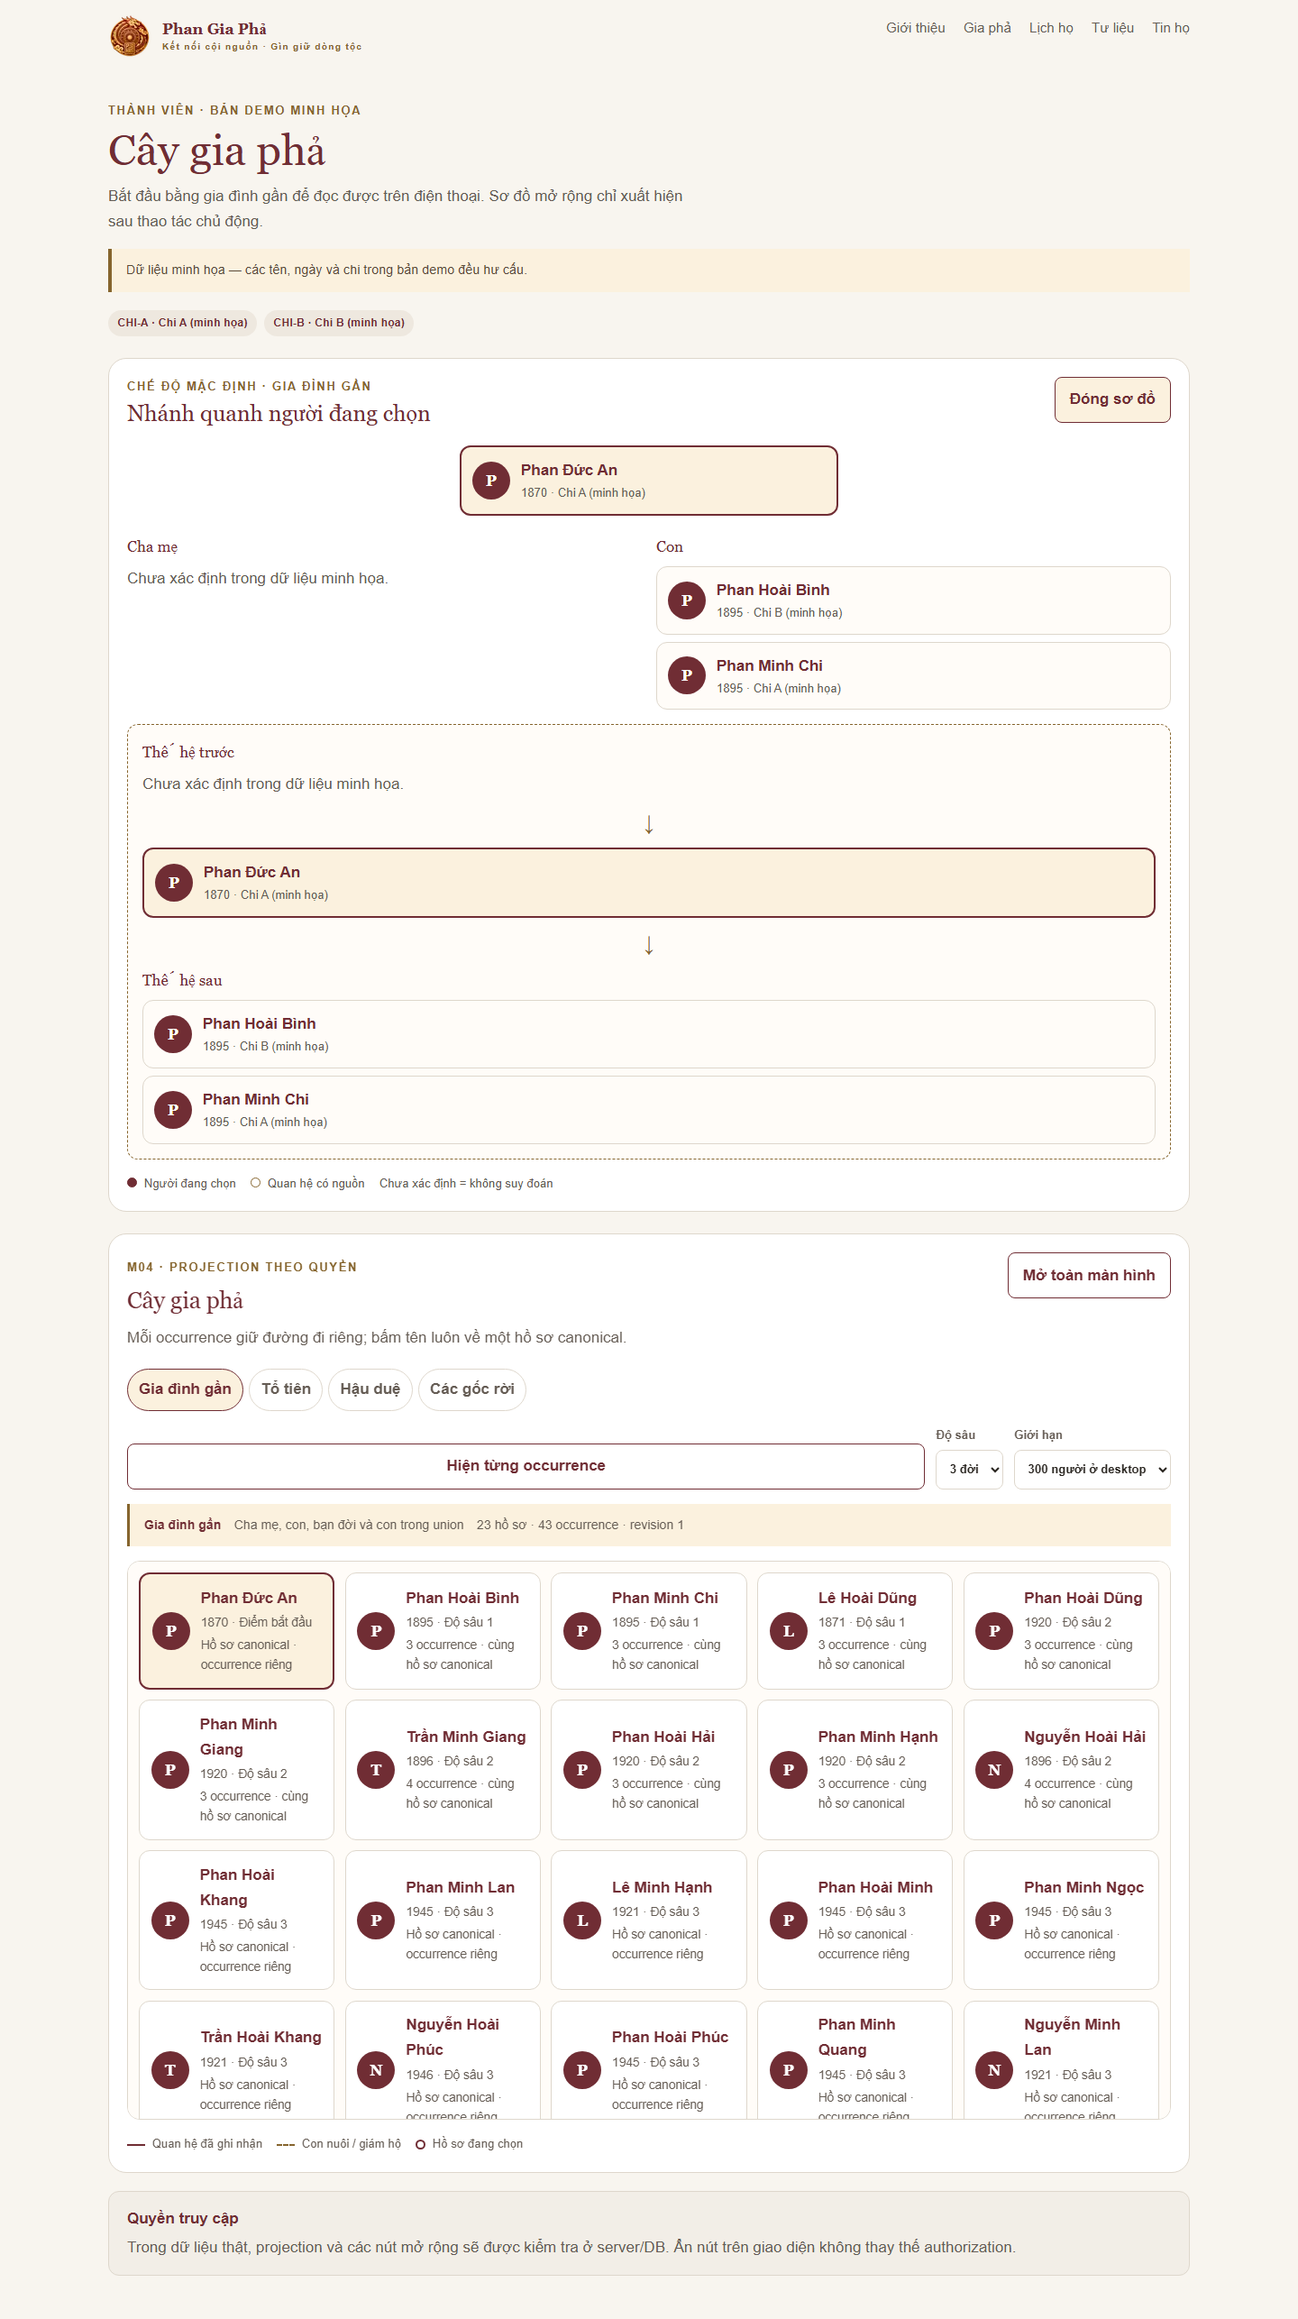
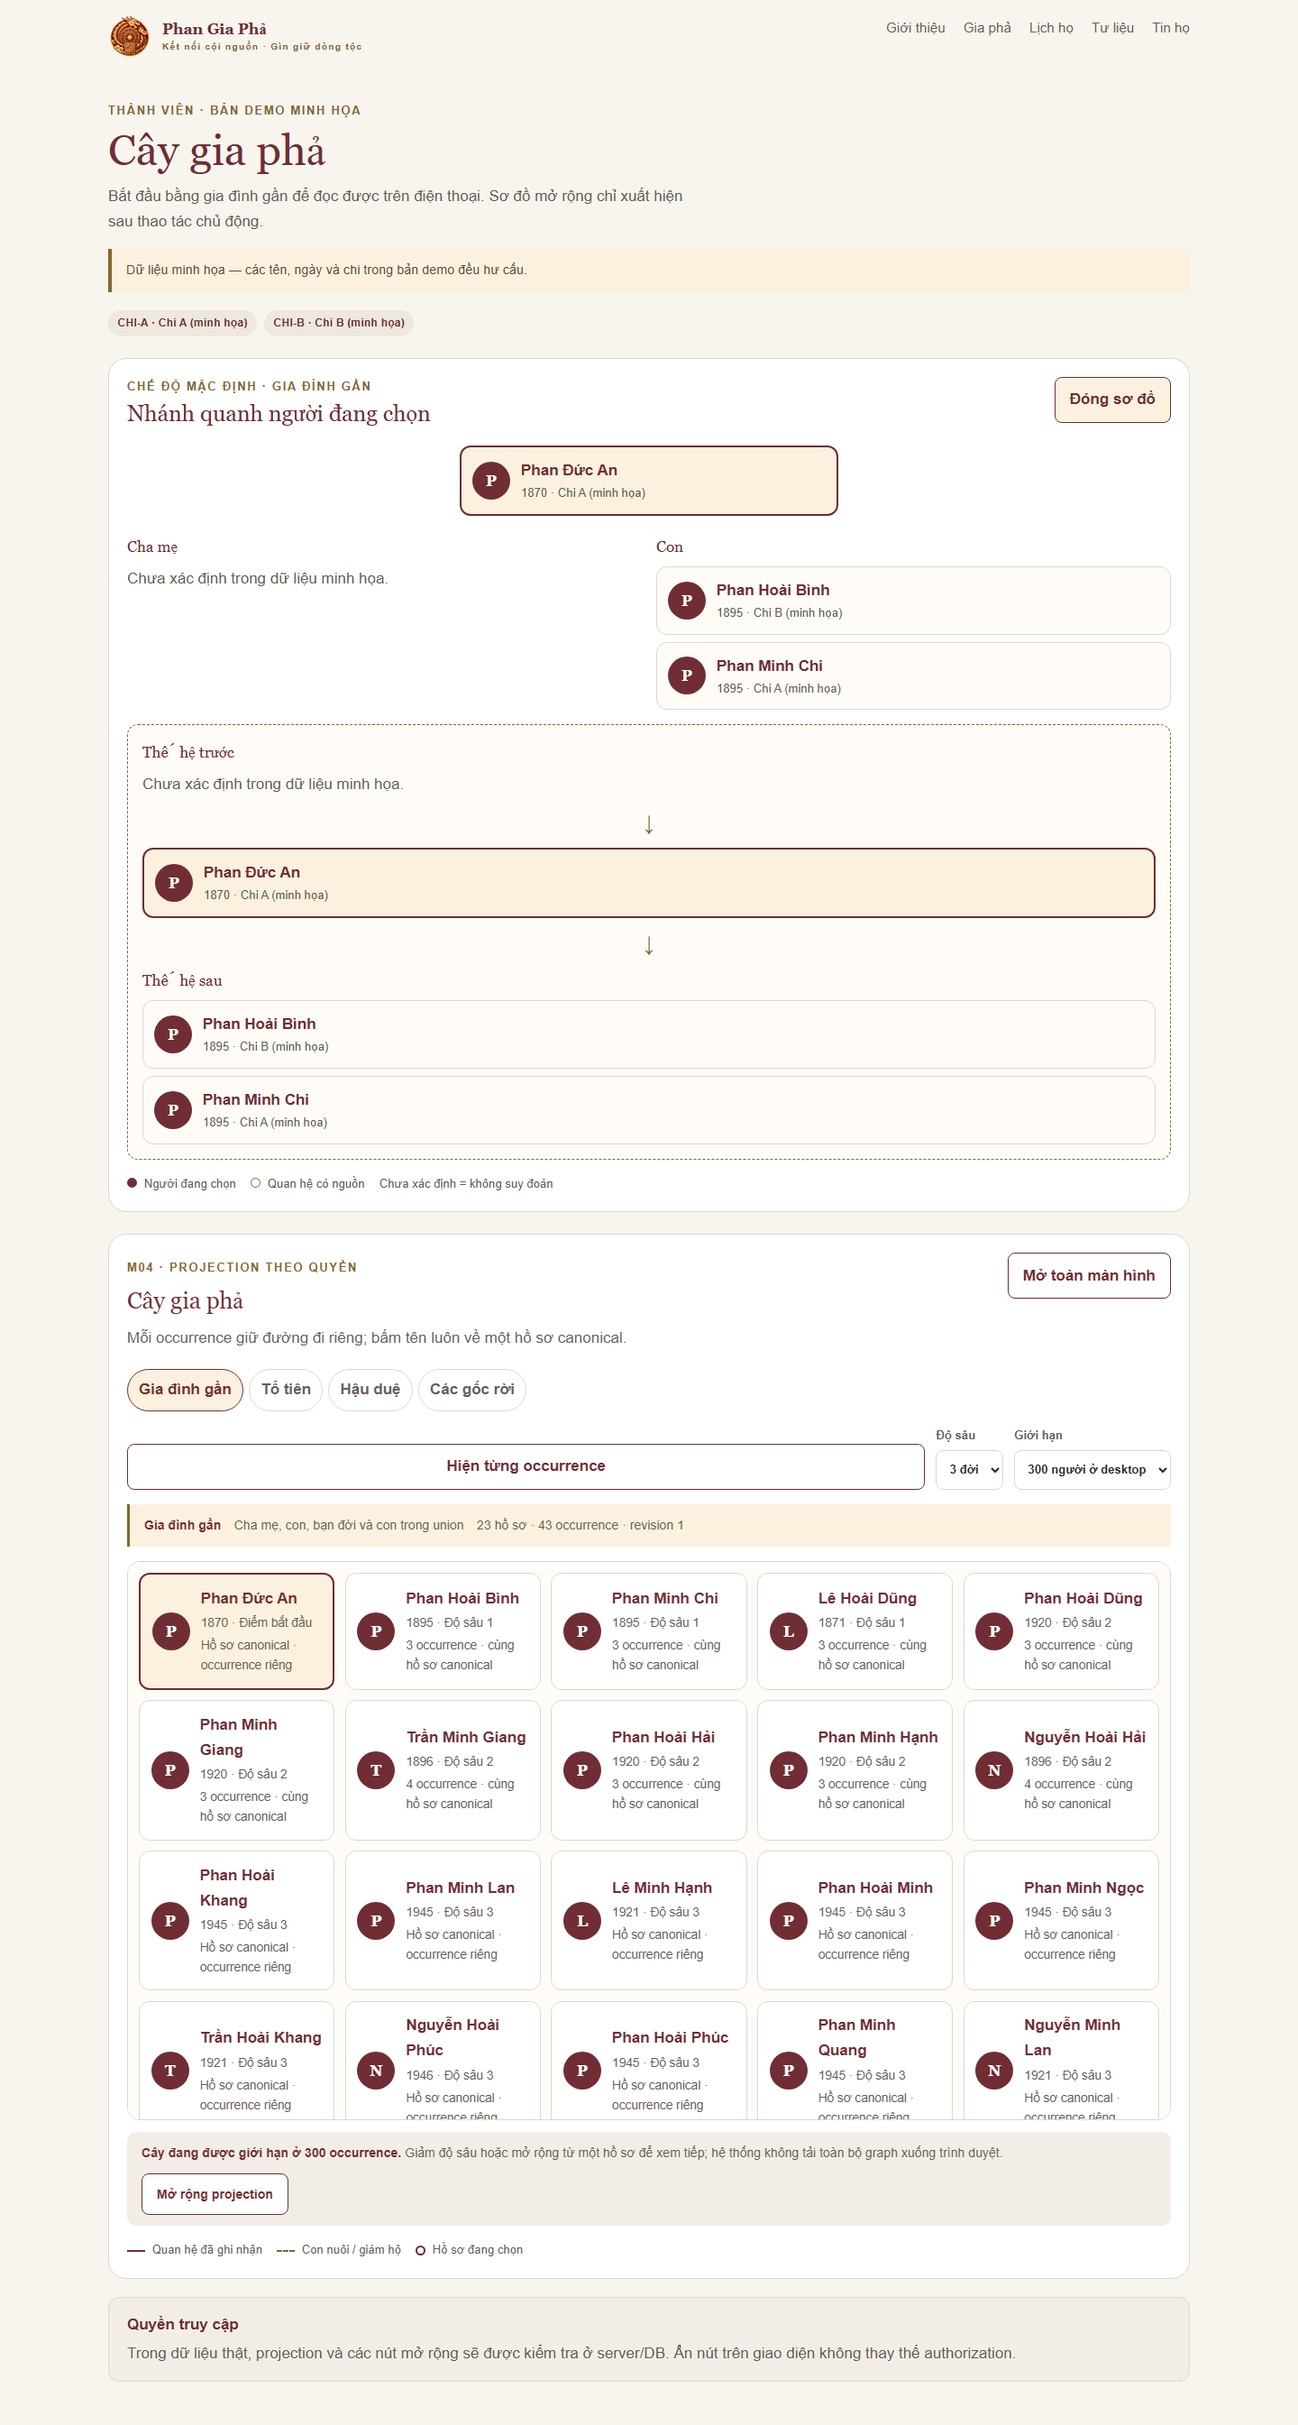
feat: add bounded graph expansion

diff --git a/apps/web/src/modules/m04/tree-explorer.tsx b/apps/web/src/modules/m04/tree-explorer.tsx
@@ -20,10 +20,14 @@ export function TreeExplorer({ rootId }: TreeExplorerProps) {
   const [maxNodes, setMaxNodes] = useState(120);
   const [isFullscreen, setIsFullscreen] = useState(false);
   const [showOccurrences, setShowOccurrences] = useState(false);
+  const [isDesktop, setIsDesktop] = useState(false);
 
   useEffect(() => {
     const media = window.matchMedia("(min-width: 768px)");
-    const updateCap = () => setMaxNodes(media.matches ? 300 : 120);
+    const updateCap = () => {
+      setIsDesktop(media.matches);
+      setMaxNodes(media.matches ? 300 : 120);
+    };
     updateCap();
     media.addEventListener("change", updateCap);
     return () => media.removeEventListener("change", updateCap);
@@ -48,6 +52,13 @@ export function TreeExplorer({ rootId }: TreeExplorerProps) {
   }, [graph, occurrenceGroups, showOccurrences]);
   const currentNode = graph?.nodes.find((node) => node.person.id === rootId && node.depth === 0);
   const modeLabel = modes.find((item) => item.value === mode)?.label ?? "Cây gia phả";
+  const canExpand = Boolean(graph?.nextExpansion && (graph.nextExpansion.depth > depth || (isDesktop && graph.nextExpansion.maxNodes > maxNodes)));
+  const expandProjection = () => {
+    const expansion = graph?.nextExpansion;
+    if (!expansion || !canExpand) return;
+    setDepth(expansion.depth);
+    setMaxNodes(isDesktop ? expansion.maxNodes : 120);
+  };
 
   return (
     <section className={"tree-explorer" + (isFullscreen ? " tree-explorer-fullscreen" : "")} aria-labelledby="tree-explorer-title">
@@ -90,7 +101,7 @@ export function TreeExplorer({ rootId }: TreeExplorerProps) {
           Giới hạn
           <select value={maxNodes} onChange={(event) => setMaxNodes(Number(event.target.value))}>
             <option value={120}>120 người ở mobile</option>
-            <option value={300}>300 người ở desktop</option>
+            {isDesktop ? <option value={300}>300 người ở desktop</option> : null}
           </select>
         </label>
       </div>
@@ -127,7 +138,12 @@ export function TreeExplorer({ rootId }: TreeExplorerProps) {
               ))}
             </div>
           </div>
-          {graph.truncated ? <div className="tree-truncation" role="status"><strong>Cây đang được giới hạn ở {maxNodes} occurrence.</strong> Giảm độ sâu hoặc mở rộng từ một hồ sơ để xem tiếp; hệ thống không tải toàn bộ graph xuống trình duyệt.</div> : null}
+          {graph.truncated ? (
+            <div className="tree-truncation" role="status">
+              <strong>Cây đang được giới hạn ở {maxNodes} occurrence.</strong> Giảm độ sâu hoặc mở rộng từ một hồ sơ để xem tiếp; hệ thống không tải toàn bộ graph xuống trình duyệt.
+              {graph.nextExpansion ? <button className="button-secondary tree-expand-toggle" type="button" onClick={expandProjection} disabled={!canExpand}>Mở rộng projection</button> : null}
+            </div>
+          ) : null}
           <div className="tree-legend" aria-label="Chú giải quan hệ">
             <span><i className="tree-legend-line" /> Quan hệ đã ghi nhận</span>
             <span><i className="tree-legend-line tree-legend-adoptive" /> Con nuôi / giám hộ</span>

diff --git a/contracts/domain.types.ts b/contracts/domain.types.ts
@@ -17,7 +17,7 @@ export type ParentLink = { id: string; version: number; parentId: string; childI
 export type UnionInput = { kind: "marriage" | "partnership" | "unknown"; status: "active" | "separated" | "divorced" | "widowed" | "unknown"; partnerIds: Array<string>; childIds: Array<string>; startDate?: GenealogyDate; endDate?: GenealogyDate; notes?: string; sourceIds?: Array<string> };
 export type Union = { id: string; version: number; kind: "marriage" | "partnership" | "unknown"; status: "active" | "separated" | "divorced" | "widowed" | "unknown"; partnerIds: Array<string>; childIds: Array<string>; startDate?: GenealogyDate; endDate?: GenealogyDate; notes?: string; sourceIds?: Array<string> };
 export type Family = { person: PersonSummary; parents: Array<PersonSummary>; children: Array<PersonSummary>; unions: Array<Union>; links: Array<ParentLink> };
-export type Graph = { nodes: Array<{ occurrenceId: string; person: PersonSummary; depth: number }>; edges: Array<{ id: string; sourceOccurrenceId: string; targetOccurrenceId: string; kind: "biological" | "adoptive" | "guardian" | "step" | "union"; status?: "confirmed" | "disputed" }>; roots: Array<string>; graphRevision: number; truncated: boolean; reason: "node_limit" | "depth_limit" | "time_budget" | null; expandablePersonIds: Array<string> };
+export type Graph = { nodes: Array<{ occurrenceId: string; person: PersonSummary; depth: number }>; edges: Array<{ id: string; sourceOccurrenceId: string; targetOccurrenceId: string; kind: "biological" | "adoptive" | "guardian" | "step" | "union"; status?: "confirmed" | "disputed" }>; roots: Array<string>; graphRevision: number; truncated: boolean; reason: "node_limit" | "depth_limit" | "time_budget" | null; nextExpansion: { direction: "ancestors" | "descendants" | "family" | "roots"; depth: number; maxNodes: number; anchorOccurrenceId: string | null } | null; expandablePersonIds: Array<string> };
 export type Kinship = { status: "found" | "not_found_within_visible_graph" | "limit_reached"; paths: Array<Array<{ person: PersonSummary; via: "start" | "parent" | "child" | "partner" | "adoptive_parent" | "adoptive_child" }>>; label: string | null; labelConfidence: "reviewed_rule" | "descriptive_only" | "unknown"; visitedCount: number; truncated: boolean };
 export type BranchInput = { code: string; name: string; parentBranchId?: string | null; founderPersonId?: string | null; description?: string; visibility: "restricted" | "members" | "public" };
 export type Branch = { id: string; version: number; code: string; name: string; parentBranchId?: string | null; founderPersonId?: string | null; description?: string; visibility: "restricted" | "members" | "public" };

diff --git a/packages/domain/src/m04.ts b/packages/domain/src/m04.ts
@@ -159,7 +159,16 @@ export function buildGraphProjection(input: GraphInput, mode: GraphMode, depth: 
     depth: work.depth
   }));
   const expandablePersonIds = unique(drafts.filter(({ work }) => work.depth < depth).map(({ person }) => person.id));
-  const reason = truncated ? "node_limit" : drafts.some(({ work }) => work.depth === depth) ? "depth_limit" : null;
+  const nodeLimited = truncated;
+  const depthLimited = drafts.some(({ work }) => work.depth === depth);
+  truncated = nodeLimited || depthLimited;
+  const reason = nodeLimited ? "node_limit" : depthLimited ? "depth_limit" : null;
+  const nextExpansion = truncated ? {
+    direction: mode,
+    depth: Math.min(depth + 1, 6),
+    maxNodes: Math.min(maxNodes * 2, 300),
+    anchorOccurrenceId: null
+  } : null;
 
   return {
     nodes,
@@ -168,6 +177,7 @@ export function buildGraphProjection(input: GraphInput, mode: GraphMode, depth: 
     graphRevision: input.graphRevision ?? 1,
     truncated,
     reason,
+    nextExpansion,
     expandablePersonIds
   };
 }

diff --git a/packages/contracts/src/index.ts b/packages/contracts/src/index.ts
@@ -234,6 +234,12 @@ const graphEdgeSchema = z.object({
   kind: z.enum(["biological", "adoptive", "guardian", "step", "union"]),
   status: z.enum(["confirmed", "disputed"]).optional()
 });
+const graphExpansionSchema = z.object({
+  direction: graphDirectionSchema,
+  depth: z.number().int().min(1).max(6),
+  maxNodes: z.number().int().min(1).max(300),
+  anchorOccurrenceId: z.string().min(1).nullable()
+});
 export const graphProjectionSchema = z.object({
   nodes: z.array(z.object({
     occurrenceId: z.string().min(1),
@@ -245,5 +251,6 @@ export const graphProjectionSchema = z.object({
   graphRevision: z.number().int().positive(),
   truncated: z.boolean(),
   reason: z.enum(["node_limit", "depth_limit", "time_budget"]).nullable(),
+  nextExpansion: graphExpansionSchema.nullable().default(null),
   expandablePersonIds: z.array(z.string().uuid())
 });

diff --git a/packages/domain/src/m04.test.ts b/packages/domain/src/m04.test.ts
@@ -28,6 +28,11 @@ describe("M04 graph projection", () => {
   it("honors node caps and keeps disconnected roots separate", () => {
     const limited = buildGraphProjection({ ...input, rootPersonId: people[0]!.id }, "descendants", 3, 1);
     expect(limited.truncated).toBe(true);
+    expect(limited.nextExpansion).toEqual({ direction: "descendants", depth: 4, maxNodes: 2, anchorOccurrenceId: null });
+    const depthLimited = buildGraphProjection({ ...input, rootPersonId: people[0]!.id }, "descendants", 1, 120);
+    expect(depthLimited.truncated).toBe(true);
+    expect(depthLimited.reason).toBe("depth_limit");
+    expect(depthLimited.nextExpansion?.depth).toBe(2);
     const roots = buildGraphProjection(input, "roots", 3, 120);
     expect(roots.nodes.map((node) => node.person.code)).toEqual(["ROOT", "ADOPT", "PARTNER"]);
   });

diff --git a/tests/e2e/p1-demo.spec.ts b/tests/e2e/p1-demo.spec.ts
@@ -84,6 +84,13 @@ test("tree explorer exposes bounded graph modes and fullscreen focus", async ({ 
   await expect(tabs.nth(2)).toHaveAttribute("aria-selected", "true");
   await tabs.nth(3).click();
   await expect(tabs.nth(3)).toHaveAttribute("aria-selected", "true");
+  const capSelect = page.locator(".tree-toolbar select").nth(1);
+  if ((page.viewportSize()?.width ?? 0) >= 768) {
+    await expect(capSelect).toHaveValue("300");
+  } else {
+    await expect(capSelect).toHaveValue("120");
+    await expect(capSelect.locator('option[value="300"]')).toHaveCount(0);
+  }
   const collapseToggle = page.locator(".tree-collapse-toggle");
   await expect(collapseToggle).toHaveAttribute("aria-pressed", "false");
   await collapseToggle.click();

diff --git a/apps/web/src/app/globals.css b/apps/web/src/app/globals.css
@@ -224,6 +224,7 @@ button, a, input, select { min-height: 44px; }
 .tree-state-error { border-color: var(--danger); }
 .tree-truncation { margin-top: .8rem; padding: .75rem 1rem; border-radius: 10px; background: #F2EEE7; color: var(--ink-muted); font-size: .88rem; }
 .tree-truncation strong { color: var(--brand); }
+.tree-expand-toggle { display: block; margin-top: .7rem; }
 .tree-legend { display: flex; flex-wrap: wrap; gap: .65rem 1rem; margin-top: 1rem; color: var(--ink-muted); font-size: .82rem; }
 .tree-legend-line { display: inline-block; width: 1.25rem; margin-right: .25rem; border-top: 2px solid var(--brand); vertical-align: middle; }
 .tree-legend-adoptive { border-top-style: dashed; border-color: var(--accent); }

diff --git a/packages/contracts/src/m04.test.ts b/packages/contracts/src/m04.test.ts
@@ -1,0 +1,18 @@
+import { describe, expect, it } from "vitest";
+import { graphProjectionSchema } from "./index";
+
+describe("M04 graph contracts", () => {
+  it("accepts bounded next expansion guidance", () => {
+    const projection = graphProjectionSchema.parse({
+      nodes: [],
+      edges: [],
+      roots: [],
+      graphRevision: 1,
+      truncated: true,
+      reason: "node_limit",
+      nextExpansion: { direction: "descendants", depth: 4, maxNodes: 240, anchorOccurrenceId: null },
+      expandablePersonIds: []
+    });
+    expect(projection.nextExpansion?.maxNodes).toBe(240);
+  });
+});

diff --git a/state/TEST_REPORT.md b/state/TEST_REPORT.md
@@ -56,3 +56,5 @@ Mỗi test record: testId, requirementId, env, commit, command, startedAt, exitC
 2026-09-27 M04-01 evidence: pnpm test:m04:graph exit 0 for ancestor/descendant/family/roots, union/adoption, disputed labels, disconnected roots and node cap on synthetic local Supabase. pnpm test:db, test:m03 and test:m03:dates exit 0 after migration 0015. Full pnpm test exit 0 (contracts 7/7, domain 12/12, worker 5/5); typecheck, lint (one existing PostCSS warning), build and pnpm test:e2e exit 0 with 24/24 desktop Chromium, mobile Chromium and mobile 320 tests including Tree Explorer modes/fullscreen. Axe/manual/real-device/remote CI remain NOT_RUN; no real data/cloud/production used.
 
 2026-09-27 M04-02 evidence: collapseGraphOccurrences regression passed with repeated canonical person IDs and distinct occurrence IDs; pnpm --filter @phan/domain test exit 0 (13/13). pnpm typecheck, pnpm build and pnpm exec playwright test exit 0 with 24/24 desktop Chromium, mobile Chromium and mobile 320 tests; new E2E assertion covers collapse/expand toggle. Axe/manual/real-device/remote CI remain NOT_RUN; no real data/cloud/production used.
+
+2026-09-27 M04-03 evidence: migration 0015 graph RPC and supabase/tests/m04_graph.sql exit 0 with truncated=true plus bounded nextExpansion depth/maxNodes assertions for node and depth limits. Full pnpm test exit 0 with contracts 8/8, domain 13/13 and worker 5/5; pnpm typecheck, pnpm build and lint (one existing PostCSS warning) exit 0. Playwright exit 0 in project runs: desktop Chromium 8/8, mobile Chromium plus mobile 320 16/16; mobile cap exposes 120 only and desktop uses 300. Axe/manual/real-device/remote CI remain NOT_RUN; no real data/cloud/production used.

diff --git a/state/TASKS.md b/state/TASKS.md
@@ -30,7 +30,7 @@ Canonical: `TASKS.json`. P0 đang có scaffold ứng dụng và foundation code;
 | M03-06 | P3 | Xóa có tác động | M03-05 | IN_PROGRESS - impact preview and DELETE If-Match proposal; atomic person/edge soft-delete keeps facts/sources for separate erasure; local DB/BFF/UI tests PASS; axe/manual/real-device NOT_RUN |
 | M04-01 | P4 | Các chế độ cây | M03-06, M06-04 | IN_PROGRESS - ancestor/descendant/family/roots modes, union/adoption/disputed labels, bounded projection and mobile/fullscreen UI implemented; local DB/domain/contract/build/E2E PASS; axe/manual/real-device/remote CI NOT_RUN |
 | M04-02 | P4 | Pedigree collapse | M04-01 | IN_PROGRESS - canonical person grouping preserves distinct occurrence IDs, default collapsed UI and explicit expand-to-occurrences control; domain/build/E2E PASS; axe/manual/real-device/remote CI NOT_RUN |
-| M04-03 | P4 | Giới hạn và expand | M04-02 |  |
+| M04-03 | P4 | Giới hạn và expand | M04-02 | IN_PROGRESS - mobile cap 120 and desktop cap 300 enforced per request; truncated graph carries bounded nextExpansion and UI action; local DB/contract/domain/build/E2E PASS; axe/manual/real-device/remote CI NOT_RUN |
 | M04-04 | P4 | Mobile/keyboard | M04-03 |  |
 | M04-05 | P4 | Cycle concurrency | M04-04 |  |
 | M04-06 | P4 | Đời tương đối | M04-05 |  |

diff --git a/state/BLOCKERS.md b/state/BLOCKERS.md
@@ -34,3 +34,4 @@ Git push P0: CLEAR — commit `eab975447bd4b5f73daf4685590fac633e4166da` đã đ
 Agent ghi blocker thực theo mẫu: bằng chứng, nguyên nhân giả thuyết, thử đã làm, rủi ro, hành động còn thiếu, owner, task phụ thuộc. Không lặp yêu cầu người dùng đã hoàn tất.
 | M04-01 | Axe/manual audit, real-device validation and remote CI are NOT_RUN; M04-02+ remain pending | M04-01 final UI/accessibility acceptance | Graph modes, authorization, synthetic DB/domain/contract/build and Playwright 24/24 PASS locally; continue M04-02 without owner action |
 | M04-02 | Axe/manual audit, real-device validation and remote CI are NOT_RUN; M04-03+ remain pending | M04-02 final UI/accessibility acceptance | Canonical grouping, occurrence preservation, domain test, build and Playwright 24/24 PASS locally; continue M04-03 without owner action |
+| M04-03 | Axe/manual audit, real-device validation and remote CI are NOT_RUN; M04-04+ remain pending | M04-03 final UI/accessibility acceptance | Mobile/desktop caps, nextExpansion contract, SQL assertion, build and Playwright 24/24 PASS locally; continue M04-04 without owner action |
